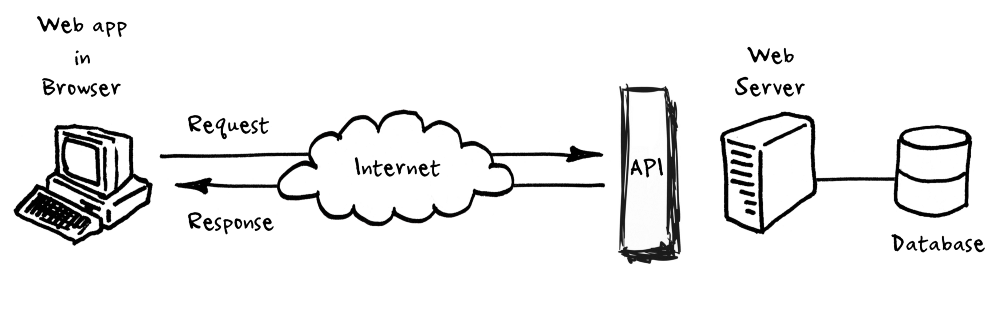
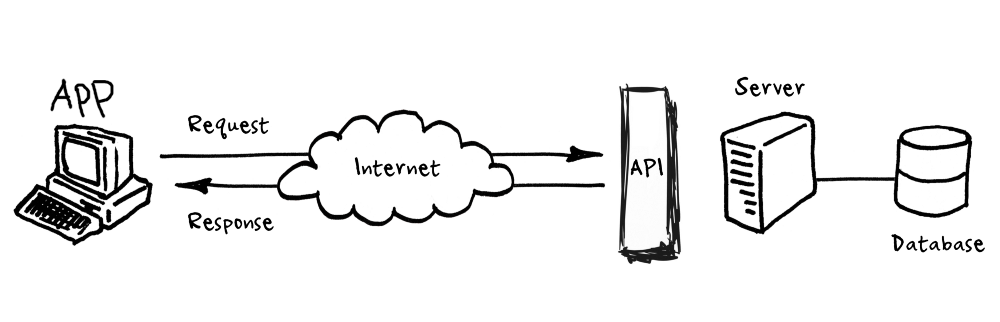
What is API?

diff --git a/README.md b/README.md
@@ -1,3 +1,5 @@
 ## Introduction API (Application Programming Interface)
 ### General Overview
 In basic terms, **APIs just allow applications to communicate with one another**. When people speak of **“an API”**, they sometimes generalize and actually mean “a publicly available web-based API that returns data, likely in JSON or XML”.  The API is not the database or even the server, it is the code that governs the **_access point(s)_** for the server.
+
+![How API works](Assets/HowAPIWorks.png)
